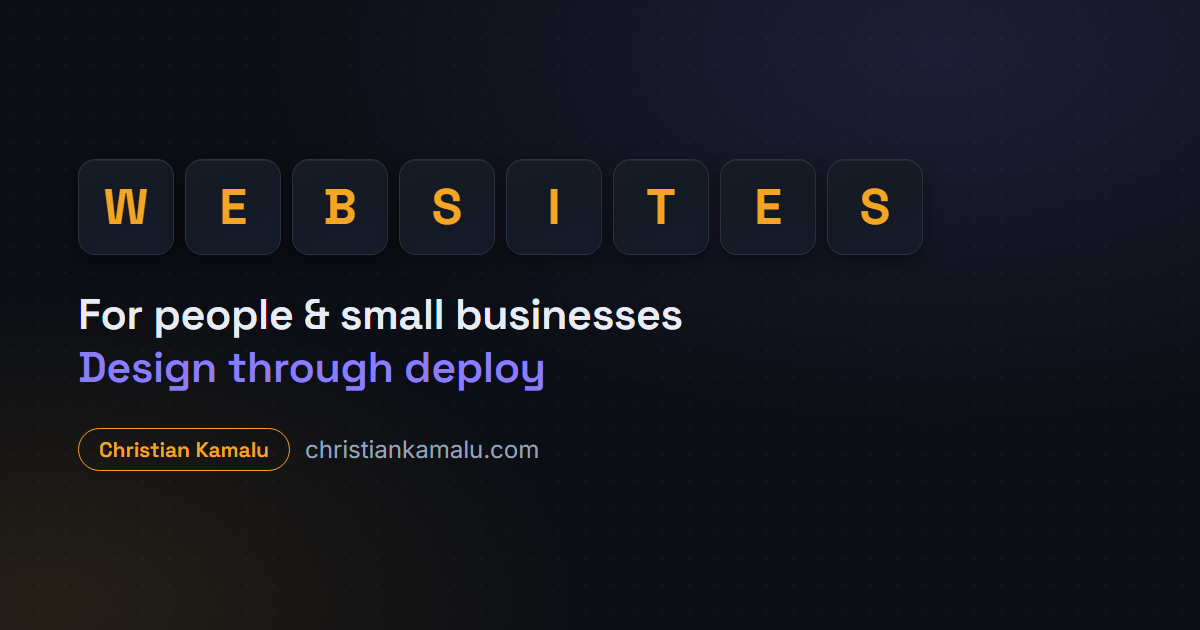
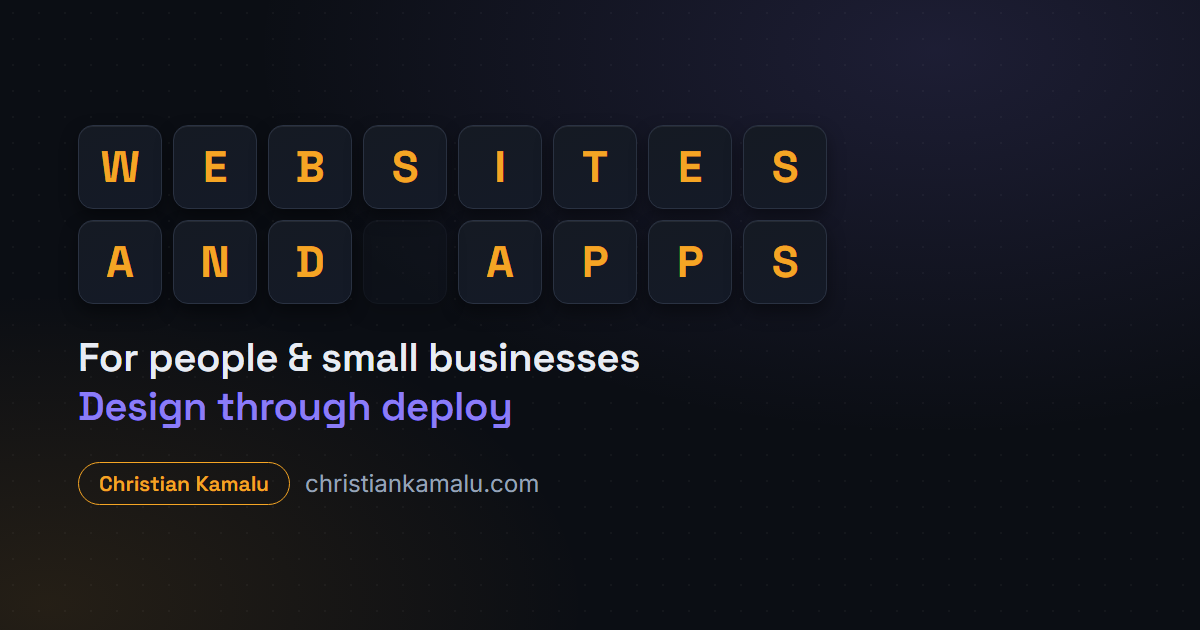
Pitch widens to websites and web apps; Pigeon joins the workshop; the BLE card becomes Foilet (#13)
The site said "websites" in every layer while the owner also builds the
apps behind them, and the Workshop already proved it. The headline layer
(title, h1 sr-only text, hero board and sub, OG card and meta tags) now
says "websites and web apps" and no more, phrased as the app behind the
site rather than a separate enterprise service; the depth layer (About,
Contact, Skills, JSON-LD knowsAbout, the offer catalog) gains a fourth
service, "Custom web application development". CLAUDE.md records the
owner's call so a future session does not revert it as the declined edit
it used to be.

The hero board's second phrase is now WEBSITES / AND APPS, which fits the
10-column grid with no COLS change. og-image.png is regenerated from
og-card.html at 1200x630 with a second tile row.

Pigeon — the self-hosted, Tailscale-only file and photo app — is new in
PROJECTS, first, with no link because it has no public URL. The "BLE
Beacon Device" card is now Foilet: the product has a name, a marketing
site (foilet.com, now linked), beta units in the field, an Android app
level with iOS, and a phone-side screen-time layer that works without
any device. Supabase and Docker join the Skills chips to match the new
tech strings.

Claude-Session: https://claude.ai/code/session_01QFFs3HRfp6Yu6FqMWuRtN9

diff --git a/src/data.ts b/src/data.ts
@@ -23,11 +23,11 @@ export const LINKS = {
 export const SITE = {
   url: 'https://www.christiankamalu.com',
   name: 'Christian Kamalu',
-  jobTitle: 'Full-stack engineer and freelance web designer',
+  jobTitle: 'Freelance web designer and full-stack developer',
   /** Used verbatim as the meta description. Keep it under ~160 characters. */
   description:
-    'I design and build websites for people and small businesses — personal sites, ' +
-    'small business sites, and rebuilds. Hand-written, fast, and yours to own outright.',
+    'I design and build websites and web apps for people and small businesses — ' +
+    'sites, rebuilds, and the app behind the site. Hand-written, fast, yours to own.',
   serviceArea: {
     /** Where he actually is. This is the location claim — keep it true. */
     city: 'Layton',
@@ -71,15 +71,22 @@ export const SITE = {
         'A rebuild of a site that has aged out — faster, readable on a phone, and ' +
         'editable without paying rent to a page builder.',
     },
+    {
+      name: 'Custom web application development',
+      description:
+        'When a site is not enough — accounts, a database, a booking flow, an admin ' +
+        'screen, an integration with something you already run. A small app built to ' +
+        'fit the business, on your own domain, installable on a phone.',
+    },
   ],
 };
 
 export const SUMMARY =
-  'I build websites for people and small businesses — design through deploy, hand-written, ' +
-  'no page-builder bloat. Behind that: 7+ years as a full-stack engineer in React, TypeScript, ' +
-  'and Node.js, and an AI-first workflow that lets me learn a new business fast and ship fast ' +
-  'without cutting the corners that matter — speed, accessibility, and a site you can actually ' +
-  'keep updated.';
+  'I build websites and web apps for people and small businesses — design through deploy, ' +
+  'hand-written, no page-builder bloat. Behind that: 7+ years as a full-stack engineer in React, ' +
+  'TypeScript, and Node.js, and an AI-first workflow that lets me learn a new business fast and ' +
+  'ship fast without cutting the corners that matter — speed, accessibility, and something you ' +
+  'can actually keep updated.';
 
 export interface Project {
   id: string;
@@ -136,15 +143,33 @@ export const CLIENT_SITES: Project[] = [
  */
 export const PROJECTS: Project[] = [
   {
-    id: 'ble',
-    name: 'BLE Beacon Device',
-    tagline: 'From bare metal to the App Store',
+    id: 'pigeon',
+    name: 'Pigeon',
+    tagline: 'A carrier pigeon for files — it only flies home',
     description:
-      'Self-taught embedded C to build a Bluetooth Low Energy device end to end: firmware on a ' +
-      'TI CC2340R5 MCU with a deep-sleep power model targeting 5+ year battery life, a SwiftUI iOS ' +
-      'companion shipping to TestFlight via GitHub Actions, and a Kotlin Android client in progress.',
-    tech: ['Embedded C', 'BLE', 'SwiftUI', 'Kotlin', 'GitHub Actions'],
-    status: 'In progress',
+      'Self-hosted file and photo app, built because sftpgo was the wrong tool: one Docker ' +
+      'container on a home server, reached over Tailscale, installable on a phone. Devices pair ' +
+      'with a short code and are held to one folder. Chunked, resumable uploads that keep a ' +
+      'photo’s capture date; a gallery by day; on-box face grouping that never uploads anything; ' +
+      'duplicate finding; video remuxed by ffmpeg as it streams. Nothing is ever deleted — only trashed.',
+    tech: ['React', 'TypeScript', 'Node.js', 'Docker', 'PWA'],
+    status: 'In daily use',
+  },
+  {
+    id: 'foilet',
+    name: 'Foilet',
+    tagline: 'A phone blocker — from bare metal to the app stores',
+    description:
+      'Opt-in self-restriction for adults: a small BLE device locks your most distracting apps ' +
+      'while the toilet lid is up; a Bed Foilet is next on the same protocol. Built end to end — ' +
+      'embedded C firmware on a TI CC2340R5 with a 5+ year battery budget, custom PCB and enclosure, ' +
+      'over-the-air updates, a SwiftUI iOS app on the Screen Time API and its Kotlin Android twin — ' +
+      'plus a screen-time layer (pause before opening, daily limits, schedules, leaderboards) that ' +
+      'needs no device at all.',
+    tech: ['Embedded C', 'BLE', 'SwiftUI', 'Kotlin', 'Supabase', 'GitHub Actions'],
+    link: 'https://foilet.com',
+    linkLabel: 'Visit foilet.com',
+    status: 'In beta',
     demo: 'ble',
   },
   {
@@ -211,7 +236,7 @@ export const EXPERIENCE: Job[] = [
     title: 'Freelance Web Designer & Developer',
     period: '2026 — present',
     bullets: [
-      'Design and build websites for people and small businesses end to end — first sketch, copy, build, domain, deploy, and a handoff that leaves the owner able to edit their own words.',
+      'Design and build websites and web apps for people and small businesses end to end — first sketch, copy, build, domain, deploy, and a handoff that leaves the owner able to edit their own words.',
       'Shipped thetoddharris.com, an Astro rebuild for an Emmy-winning Olympic commentator, and buildingstrongwomen.com, a brand site and storefront built out from an existing identity.',
     ],
   },
@@ -253,8 +278,8 @@ export interface SkillGroup {
 // (see the Skills component). Order runs client-facing first.
 export const SKILLS: SkillGroup[] = [
   { label: 'Sites', skills: ['React', 'Astro', 'TypeScript', 'Tailwind', 'Vite', 'Angular'] },
-  { label: 'Backend', skills: ['Node.js', 'PostgreSQL', 'Firebase'] },
-  { label: 'Ship it', skills: ['Netlify', 'GitHub Actions', 'SEO & metadata', 'Playwright'] },
+  { label: 'Backend', skills: ['Node.js', 'PostgreSQL', 'Supabase', 'Firebase'] },
+  { label: 'Ship it', skills: ['Netlify', 'Docker', 'GitHub Actions', 'SEO & metadata', 'Playwright'] },
   { label: 'AI', skills: ['LLM Integrations', 'Prompting & Evals', 'Claude', 'Gemini'] },
-  { label: 'Apps & Systems', skills: ['React Native', 'Expo', 'Embedded C', 'BLE', 'SwiftUI', 'Kotlin'] },
+  { label: 'Apps & Systems', skills: ['PWA', 'React Native', 'Expo', 'Embedded C', 'BLE', 'SwiftUI', 'Kotlin'] },
 ];

diff --git a/vite.config.ts b/vite.config.ts
@@ -55,13 +55,15 @@ function structuredData(): Plugin {
         email: `mailto:${LINKS.email}`,
         image: `${url}/headshot.jpg`,
         sameAs: [LINKS.github, LINKS.linkedin],
-        // Websites are the lead offer, but the entity is a full-stack
-        // engineer — leaving the back end out here would understate what the
-        // person actually is. Not visible copy, so naming the full range
-        // costs nothing in focus.
+        // Websites and web apps are the offer, and the entity is a
+        // full-stack engineer — leaving the back end out here would
+        // understate what the person actually is. Not visible copy, so
+        // naming the full range costs nothing in focus.
         knowsAbout: [
           'Web design',
           'Web development',
+          'Web application development',
+          'Progressive web apps',
           'Full-stack development',
           'Small business websites',
           'Personal websites',
@@ -80,14 +82,14 @@ function structuredData(): Plugin {
       {
         '@type': 'Service',
         '@id': id('service'),
-        name: 'Website design and development',
+        name: 'Website and web app design and development',
         serviceType: 'Web design and development',
         description,
         provider: { '@id': id('person') },
         areaServed,
         hasOfferCatalog: {
           '@type': 'OfferCatalog',
-          name: 'Website design and development',
+          name: 'Website and web app design and development',
           itemListElement: services.map((s) => ({
             '@type': 'Offer',
             itemOffered: { '@type': 'Service', name: s.name, description: s.description },
@@ -118,8 +120,8 @@ function structuredData(): Plugin {
   // than string-patched so the length is checkable, and hard-failed rather
   // than warned so a long `label` can't quietly truncate in the SERP.
   const localDescription =
-    `Websites for people and small businesses in ${descPlace}. Personal sites, ` +
-    'small business sites, and rebuilds — hand-written and fast.';
+    `Websites and web apps for people and small businesses in ${descPlace}. ` +
+    'Sites, rebuilds, and custom apps — hand-written and fast.';
 
   if (serviceArea.city && localDescription.length > 160) {
     throw new Error(
@@ -135,7 +137,7 @@ function structuredData(): Plugin {
         ? html
             .replace(
               /<title>[^<]*<\/title>/,
-              `<title>Freelance Web Designer in ${esc(titlePlace)} — Personal &amp; Small Business Websites</title>`,
+              `<title>Freelance Web Designer &amp; Developer in ${esc(titlePlace)} — Websites &amp; Web Apps</title>`,
             )
             .replace(
               // `\s*` spans the newline and indentation between the meta's

diff --git a/index.html b/index.html
@@ -9,10 +9,10 @@
     <!-- Keyword-led rather than name-led: the domain is already an exact match
          for anyone searching the name, so the title is spent on the terms
          someone looking to hire actually types. -->
-    <title>Freelance Web Designer — Personal &amp; Small Business Websites · Christian Kamalu</title>
+    <title>Freelance Web Designer &amp; Developer — Websites &amp; Web Apps · Christian Kamalu</title>
     <meta
       name="description"
-      content="I design and build websites for people and small businesses — personal sites, small business sites, and rebuilds. Hand-written, fast, and yours to own outright."
+      content="I design and build websites and web apps for people and small businesses — sites, rebuilds, and the app behind the site. Hand-written, fast, yours to own."
     />
     <link rel="canonical" href="https://www.christiankamalu.com/" />
     <meta name="author" content="Christian Kamalu" />
@@ -21,21 +21,21 @@
     <meta property="og:site_name" content="Christian Kamalu" />
     <meta property="og:locale" content="en_US" />
     <meta property="og:url" content="https://www.christiankamalu.com/" />
-    <meta property="og:title" content="Websites for people &amp; small businesses — Christian Kamalu" />
+    <meta property="og:title" content="Websites &amp; web apps for people &amp; small businesses — Christian Kamalu" />
     <meta
       property="og:description"
-      content="I design, build, and ship websites — hand-written, quick to load, and yours to own outright."
+      content="I design, build, and ship websites and web apps — hand-written, quick to load, and yours to own outright."
     />
     <meta property="og:image" content="https://www.christiankamalu.com/og-image.png" />
     <meta property="og:image:width" content="1200" />
     <meta property="og:image:height" content="630" />
-    <meta property="og:image:alt" content="Christian Kamalu — websites for people and small businesses" />
+    <meta property="og:image:alt" content="Christian Kamalu — websites and web apps for people and small businesses" />
 
     <meta name="twitter:card" content="summary_large_image" />
-    <meta name="twitter:title" content="Websites for people &amp; small businesses — Christian Kamalu" />
+    <meta name="twitter:title" content="Websites &amp; web apps for people &amp; small businesses — Christian Kamalu" />
     <meta
       name="twitter:description"
-      content="I design, build, and ship websites — hand-written, quick to load, and yours to own outright."
+      content="I design, build, and ship websites and web apps — hand-written, quick to load, and yours to own outright."
     />
     <meta name="twitter:image" content="https://www.christiankamalu.com/og-image.png" />
 

diff --git a/scripts/og-card.html b/scripts/og-card.html
@@ -23,7 +23,7 @@
         display: flex;
         flex-direction: column;
         justify-content: center;
-        gap: 34px;
+        gap: 30px;
         position: relative;
         overflow: hidden;
       }
@@ -36,18 +36,19 @@
         background-size: 26px 26px;
         opacity: 0.5;
       }
-      .row { display: flex; gap: 11px; position: relative; }
+      .rows { display: flex; flex-direction: column; gap: 11px; position: relative; }
+      .row { display: flex; gap: 11px; }
       .tile {
-        width: 96px;
-        height: 96px;
-        border-radius: 17px;
+        width: 84px;
+        height: 84px;
+        border-radius: 15px;
         background: linear-gradient(160deg, #151a23, #141a27);
         border: 1px solid #2a3242;
         box-shadow: inset 0 1px 0 rgba(255, 255, 255, 0.07), 0 8px 18px rgba(0, 0, 0, 0.4);
         color: #f5a524;
         font-family: 'Space Grotesk', 'Segoe UI', sans-serif;
         font-weight: 700;
-        font-size: 50px;
+        font-size: 44px;
         display: grid;
         place-items: center;
       }
@@ -55,10 +56,11 @@
         position: relative;
         font-family: 'Space Grotesk', 'Segoe UI', sans-serif;
         font-weight: 600;
-        font-size: 43px;
+        font-size: 40px;
         letter-spacing: -0.4px;
         line-height: 1.22;
       }
+      .tile.blank { opacity: 0.28; }
       .sub .accent { color: #8b7cf8; }
       .meta {
         position: relative;
@@ -80,10 +82,18 @@
     </style>
   </head>
   <body>
-    <div class="row">
-      <span class="tile">W</span><span class="tile">E</span><span class="tile">B</span>
-      <span class="tile">S</span><span class="tile">I</span><span class="tile">T</span>
-      <span class="tile">E</span><span class="tile">S</span>
+    <div class="rows">
+      <div class="row">
+        <span class="tile">W</span><span class="tile">E</span><span class="tile">B</span>
+        <span class="tile">S</span><span class="tile">I</span><span class="tile">T</span>
+        <span class="tile">E</span><span class="tile">S</span>
+      </div>
+      <div class="row">
+        <span class="tile">A</span><span class="tile">N</span><span class="tile">D</span>
+        <span class="tile blank"></span>
+        <span class="tile">A</span><span class="tile">P</span><span class="tile">P</span>
+        <span class="tile">S</span>
+      </div>
     </div>
     <div class="sub">
       For people &amp; small businesses<br /><span class="accent">Design through deploy</span>

diff --git a/src/components/About.tsx b/src/components/About.tsx
@@ -8,7 +8,7 @@ export default function About() {
     <section id="about" className="container">
       <div ref={ref} className={revealCls}>
         <p className="section-title">About</p>
-        <h2 className="section-heading">I build websites.</h2>
+        <h2 className="section-heading">I build websites and apps.</h2>
         <div className="about-grid">
           <div className="headshot-frame">
             <img src="/headshot.jpg" alt="Christian Kamalu" width={720} height={900} />
@@ -23,13 +23,13 @@ export default function About() {
               your own website.
             </p>
             <p>
-              And if it turns out you need more than a site &mdash; accounts, a database,
-              a booking flow, an integration with something you already run &mdash;
-              that&rsquo;s the same job at a different size. Say so early and I&rsquo;ll
-              scope it.
+              And when you need more than a site &mdash; accounts, a database, a booking
+              flow, an admin screen, an integration with something you already run
+              &mdash; I build that too. Same person, same hand-written approach, a
+              different size of job. Say so early and I&rsquo;ll scope it.
             </p>
             <ul className="now-list">
-              <li><span className="spark"><Icon name="caret" size={11} /></span> Taking on website work — personal sites, small business, and rebuilds of sites that have aged out</li>
+              <li><span className="spark"><Icon name="caret" size={11} /></span> Taking on website and web app work — personal sites, small business, rebuilds of sites that have aged out, and the custom app when a site isn&rsquo;t enough</li>
               <li><span className="spark"><Icon name="caret" size={11} /></span> Recently shipped: thetoddharris.com and buildingstrongwomen.com</li>
               <li><span className="spark"><Icon name="caret" size={11} /></span> Always: an LLM in the loop — it&rsquo;s how this site got built, too</li>
             </ul>

diff --git a/src/components/Hero.tsx b/src/components/Hero.tsx
@@ -16,7 +16,7 @@ import Icon from './Icon';
  */
 const PHRASES = [
   { lead: 'Hi, I’m', lines: ['CHRISTIAN', 'KAMALU'] },
-  { lead: 'What I do —', lines: ['I BUILD', 'WEBSITES'] },
+  { lead: 'What I build —', lines: ['WEBSITES', 'AND APPS'] },
   { lead: 'Who I do it for —', lines: ['PEOPLE AND', 'BUSINESSES'] },
   { lead: 'And how far I take it —', lines: ['DESIGN TO', 'DEPLOY'] },
 ];
@@ -127,7 +127,7 @@ export default function Hero() {
             readers and for crawlers; it says what the hero says out loud, so
             it is an accessible name, not cloaked keywords. */}
         <span className="sr-only">
-          Christian Kamalu &mdash; websites for people and small businesses
+          Christian Kamalu &mdash; websites and web apps for people and small businesses
         </span>
         <span aria-hidden="true" className="tile-rows-inner">
           {Array.from({ length: ROWS }, (_, row) => (
@@ -147,14 +147,15 @@ export default function Hero() {
       </span>
 
       <p className="hero-sub">
-        Websites for people &amp; small businesses
+        Websites &amp; web apps for people &amp; small businesses
         <span className="divider">·</span>
         <span className="accent">Design through deploy</span>
       </p>
       <p className="hero-line">
-        I design, build, and ship websites — hand-written, quick to load, and yours
-        to own outright. Two client sites are live below, and the games further
-        down are playable right on this page.
+        I design, build, and ship websites — and the apps behind them when a site
+        isn&rsquo;t enough. Hand-written, quick to load, and yours to own outright.
+        Two client sites are live below, and the games further down are playable
+        right on this page.
       </p>
 
       <div className="hero-ctas">

diff --git a/src/components/Footer.tsx b/src/components/Footer.tsx
@@ -13,10 +13,10 @@ export default function Footer() {
   return (
     <footer className="footer-section container" id="contact">
       <div ref={ref} className={`footer-card ${revealCls}`}>
-        <h2>Let&rsquo;s build your site.</h2>
+        <h2>Let&rsquo;s build your site &mdash; or your app.</h2>
         <p>
           A personal site, something for your business, a rebuild of the one that has
-          quietly aged out &mdash; or something with a good deal more behind it. Tell me
+          quietly aged out &mdash; or an app with a good deal more behind it. Tell me
           what it needs to do and who it needs to reach, and I&rsquo;ll tell you what it
           takes. No pitch deck required.
         </p>

diff --git a/CLAUDE.md b/CLAUDE.md
@@ -3,20 +3,23 @@
 Vite + React 19 + TypeScript single-page portfolio. Zero runtime deps beyond
 react/react-dom — keep it that way; animations are hand-rolled CSS.
 
-- The site sells one thing: **websites for people and small businesses, on
-  contract**. Hero, About, the Contact footer, and the `index.html` meta tags
-  all carry that message — change one and change the rest, or the page starts
-  hedging. It is deliberately not a job-hunt page any more; there is no "open
-  to my next role" line to restore.
+- The site sells one thing: **websites and web apps for people and small
+  businesses, on contract**. Hero, About, the Contact footer, the OG card, and
+  the `index.html` meta tags all carry that message — change one and change
+  the rest, or the page starts hedging. It is deliberately not a job-hunt page
+  any more; there is no "open to my next role" line to restore.
 - That focus is layered, and the layers are not the same. The **headline layer**
   — `<title>`, the h1's `.sr-only` text, the hero, the Google Business Profile
-  category — stays narrow, because a small business owner searching for a
-  website reads breadth as "too big for my job" and leaves. The **depth layer**
-  — About's closing paragraph, the Contact copy, Skills, the Workshop cards,
-  and `knowsAbout` in the JSON-LD — carries the full full-stack range, so a
-  client who needs a back end behind the site doesn't filter themselves out.
-  Widening the headline to match the depth is the tempting edit and the wrong
-  one; it was considered and declined.
+  category — says "websites and web apps" and no more, in the client's words:
+  a small business owner searching for a website reads "software engineering"
+  or "full-stack" as "too big for my job" and leaves. "Apps" was added to the
+  headline in October 2026 on the owner's call, because the Workshop proves
+  the claim and leaving it out was understating the offer; keep it phrased as
+  the app *behind the site*, not as a separate enterprise service. The
+  **depth layer** — About's closing paragraph, the Contact copy, Skills, the
+  Workshop cards, and `knowsAbout` in the JSON-LD — carries the full
+  full-stack range, so a client who needs a back end doesn't filter
+  themselves out. Don't widen the headline any further than that.
 - `CLIENT_SITES` (paid work, leads the Projects section) and `PROJECTS`
   (personal builds) are separate arrays of the same `Project` type. Client
   cards are the proof behind the pitch, so every `link` there must stay live —
